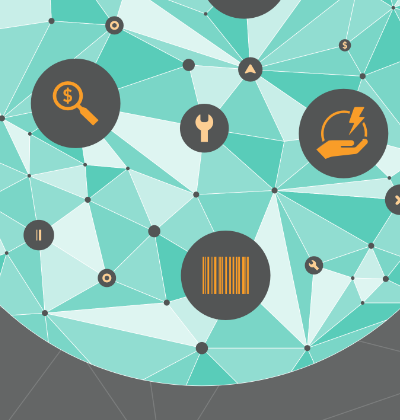
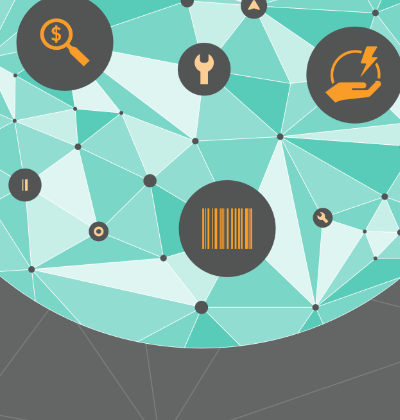
Consolidated – Page completed
Consolidated Productolith promo completed.

Home page updated with thumbnail and Forward links in preceding pages updated accordingly.

diff --git a/work_consolidated.html b/work_consolidated.html
@@ -1,23 +1,24 @@
+
 <!DOCTYPE html>
 <html lang="en">
 
 <head>
     <meta charset="UTF-8">
 
-    <title>Cambodian Association of Illinois + Paul Wong</title>
+    <title>Consolidated Papers + Paul Wong</title>
 
     <meta name="viewport" content="width=device-width, initial-scale=1.0">
-    <meta name="description" content="Cambodian Association of Illinois exhibit, ‘Remembering the Killing Fields’.">
+    <meta name="description" content="Productolith Paper Promotion.">
 
-    <meta property="og:title" content="Cambodian Association of Illinois + Paul Wong" />
-    <meta property="og:description" content="Cambodian Association of Illinois exhibit, ‘Remembering the Killing Fields’." />
+    <meta property="og:title" content="Consolidated Papers + Paul Wong" />
+    <meta property="og:description" content="Productolith Paper Promotion." />
     <meta property="og:image" content="???" />
-    <meta property="og:url" content="http://www.pauldub.com/work_caoi.html" />
+    <meta property="og:url" content="http://www.pauldub.com/work_consolidated.html" />
 
     <meta name="twitter:card" content="???">
-    <meta name="twitter:title" content="Cambodian Association of Illinois + Paul Wong">
+    <meta name="twitter:title" content="Consolidated Papers + Paul Wong">
     <meta name="twitter:image" content="???">
-    <meta name="twitter:description" content="Cambodian Association of Illinois exhibit, ‘Remembering the Killing Fields’.">
+    <meta name="twitter:description" content="Productolith Paper Promotion.">
 
     <link rel="shortcut icon" href="_favicon.ico" type="image/x-icon">
     <link href="https://fonts.googleapis.com/css2?family=Heebo:wght@200;300;400;500&display=swap" rel="stylesheet"> 
@@ -51,61 +52,62 @@
 <div class="container-work">
 
     <div class="work_title">
-        <h1><span class="type_semibold">Cambodian Association of Illinois</span> 
+        <h1><span class="type_semibold">Consolidated Papers</span> 
             <span class="type_orange type_light" letter-spacing="-2px">//</span> 
-            ‘Remembering The Killing Fields’ Exhibition</h1>
+            Productolith Paper Promotion, ‘No.2 Blue’</h1>
     </div>
 
     <div class="work_desc_left">
-        <p>The story of life in Cambodia during the Khmer Rouge regime was told through the accounts of survivors of the genocide. The exhibition was designed to evoke a sombre mood as visitors absorbed the words and images around them.</p>
+        <p>Promotional brochure created to introduce a new line of paper with a bluer shade. Consolidated Papers wanted to communicate the fact that their paper would not be as blue as that of their competitors, which tended to look too cold. The concept was to reinforce that message by talking about things that weren’t literally blue, but whose names contained the word “blue”.</p>
     </div>
 
     <div class="work_desc_right">
         <p>
             <span class="type_semibold">Discipline</span> 
-            <span class="type_orange">/</span> Environments, print<br>
+            <span class="type_orange">/</span> Print<br>
             <span class="type_semibold">Role</span> 
-            <span class="type_orange">/</span> Art direction, design, illustration<br>
+            <span class="type_orange">/</span> Art direction, design, production, project management<br>
             <span class="type_semibold">Credits</span> 
-            <span class="type_orange">/</span> Project coordination, Atomic Kitchen 
-            <span class="type_orange">/</span> Exhibit photography, <a href="https://www.linkedin.com/in/punisa-pov-437433ab/" class="link_inline" target="blank">Punisa Pov</a>
+            <span class="type_orange">/</span> Created at Deborah Schneider Design 
+            <span class="type_orange">/</span> Photography, Rodney Oman Bradley 
+            <span class="type_orange">/</span> Photo Production Design, Michael Edwards</a>
         </p>
     </div>
 
     <div class="work_4col">
-        <img class="art" src="z_support/imgs/wk_caoi_01.jpg" alt="">
+        <img class="art" src="z_support/imgs/wk_consolidated_01.jpg" alt="">
     </div>
 
     <div class="work_4col">
-        <img class="art" src="z_support/imgs/wk_caoi_02.jpg" alt="">
+        <img class="art" src="z_support/imgs/wk_consolidated_02.jpg" alt="">
     </div>
 
     <div class="work_4col">
-        <img class="art" src="z_support/imgs/wk_caoi_03.png" alt="">
+        <img class="art" src="z_support/imgs/wk_consolidated_03.jpg" alt="">
     </div>
 
     <div class="work_4col">
-        <img class="art" src="z_support/imgs/wk_caoi_04.jpg" alt="">
+        <img class="art" src="z_support/imgs/wk_consolidated_04.jpg" alt="">
     </div>
 
     <div class="work_4col">
-        <img class="art" src="z_support/imgs/wk_caoi_05.png" alt="">
+        <img class="art" src="z_support/imgs/wk_consolidated_05.jpg" alt="">
     </div>
 
     <div class="work_4col">
-        <img class="art" src="z_support/imgs/wk_caoi_06.png" alt="">
+        <img class="art" src="z_support/imgs/wk_consolidated_06.jpg" alt="">
     </div>
 
     <div class="work_2col_left">
-        <img class="art" src="z_support/imgs/wk_caoi_07_exhibit.jpg" alt="">
+        <img class="art" src="z_support/imgs/wk_consolidated_07.jpg" alt="">
     </div>
 
     <div class="work_2col_right">
-        <img class="art" src="z_support/imgs/wk_caoi_08_exhibit.jpg" alt="">
+        <img class="art" src="z_support/imgs/wk_consolidated_08.jpg" alt="">
     </div>
 
     <div class="work_4col">
-        <img class="art" src="z_support/imgs/wk_caoi_09_exhibit.jpg" alt="">
+        <img class="art" src="z_support/imgs/wk_consolidated_09.jpg" alt="">
     </div>
 
 </div>
@@ -115,7 +117,7 @@
     <div class="nav_left">
         Go <a href="#top">Up</a> 
         <a href="index.html"><span class="type_orange">/</span> Home </a>
-        <a href="work_consolidated.html"><span class="type_orange">/</span> Forward</a>
+        <a href="work_glg.html"><span class="type_orange">/</span> Forward</a>
     </div>
 
     <div class="nav_right">

diff --git a/index.html b/index.html
@@ -53,20 +53,25 @@
     <div class="home_intro">
         <h1 class="type_regular">I am a freelance designer in New York City, striving for a world where ideas, words and pictures live in harmony.</h1>
     </div>
-    
+
     <div class="home_thumbnail">
         <h2><a href="work_aiga.html">AIGA</a></h2>
         <a href="work_aiga.html"><img class="art" src="z_support/imgs/hm_thumbnail_01.png" alt="AIGA Corporate Sponsorship Brochure"></a>
     </div>
-    
+
     <div class="home_thumbnail">
         <h2><a href="work_artfriend.html">Art Friend</a></h2>
         <a href="work_artfriend.html"><img class="art" src="z_support/imgs/hm_thumbnail_02.png" alt=""></a>
     </div>
-    
+
     <div class="home_thumbnail">
         <h2><a href="work_caoi.html">Cambodian Association of Illinois</a></h2>
         <a href="work_caoi.html"><img class="art" src="z_support/imgs/hm_thumbnail_03.png" alt=""></a>
+    </div>
+
+    <div class="home_thumbnail">
+        <h2><a href="work_consolidated.html">Consolidated Papers</a></h2>
+        <a href="work_consolidated.html"><img class="art" src="z_support/imgs/hm_thumbnail_04a.png" alt=""></a>
     </div>
 
     <div class="home_thumbnail">
@@ -75,25 +80,30 @@
     </div>
 
     <div class="home_thumbnail">
+        <h2><a href="work_gfi.html">Good Food Institute</a></h2>
+        <a href="work_gfi.html"><img class="art" src="z_support/imgs/hm_thumbnail_06.png" alt=""></a>
+    </div>
+
+    <div class="home_thumbnail">
         <h2><a href="work_mabp.html">Make A Better Place</a></h2>
         <a href="work_mabp.html"><img class="art" src="z_support/imgs/hm_thumbnail_07.png" alt=""></a>
     </div>
-    
+
     <div class="home_thumbnail">
         <h2><a href="work_mwe.html">McDermott Will & Emery</a></h2>
         <a href="work_mwe.html"><img class="art" src="z_support/imgs/hm_thumbnail_08.png" alt=""></a>
     </div>
-    
+
     <div class="home_thumbnail">
         <h2><a href="work_spencerstuart.html">Spencer Stuart</a></h2>
         <a href="work_spencerstuart.html"><img class="art" src="z_support/imgs/hm_thumbnail_09.png" alt=""></a>
     </div>
-    
+
     <div class="home_thumbnail">
         <h2><a href="work_otherstuffz.html">Other Things I Did</a></h2>
         <a href="work_otherstuffz.html"><img class="art" src="z_support/imgs/hm_thumbnail_10.png" alt=""></a>
     </div>
-    
+
     <div class="home_thumbnail">
         <h2><a href="work_logos">Logos</a></h2>
         <a href="work_logos.html"><img class="art" src="z_support/imgs/hm_thumbnail_04.png" alt=""></a>

diff --git a/work_artfriend.html b/work_artfriend.html
@@ -51,7 +51,7 @@
 <div class="container-work">
 
     <div class="work_title">
-        <h1><span class="type_semibold">Art Friend</span> <span class="type_orange type_light" letter-spacing="-2px">//</span> In-store Graphics</h1>
+        <h1><span class="type_semibold">Art Friend</span> <span class="type_orange type_light" letter-spacing="-2px">//</span> Store Display Graphics</h1>
     </div>
 
     <div class="work_desc_left">
@@ -103,10 +103,6 @@
 
     <div class="work_4col">
         <img class="art" src="z_support/imgs/wk_artfriend_09.png" alt="">
-    </div>
-
-    <div class="work_4col">
-        <img class="art" src="z_support/imgs/wk_artfriend_10.png" alt="">
     </div>
 
 </div>
